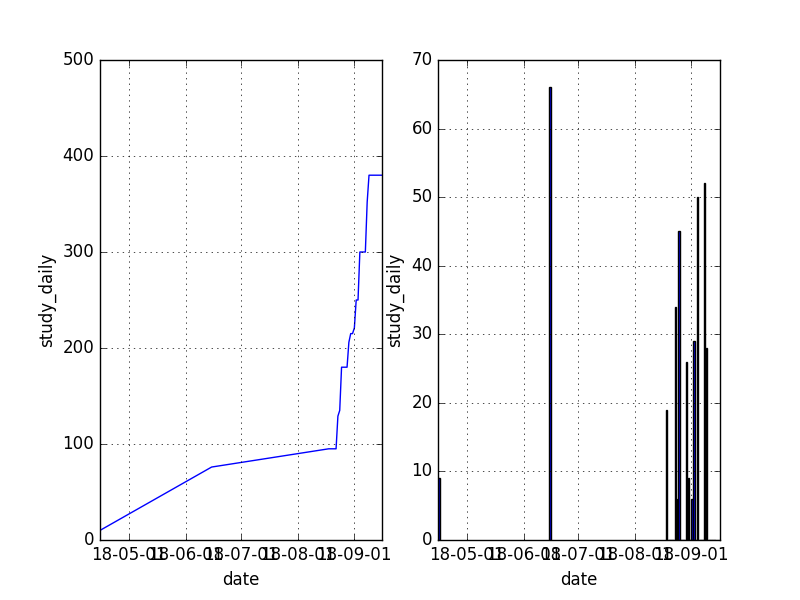
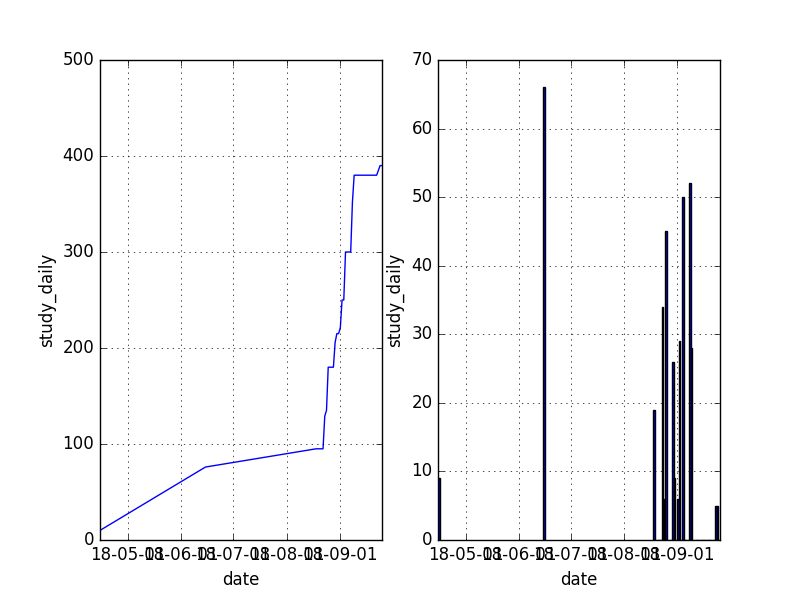
更新学习进度，狗狗分类提交了第一版，目前有6点要修复的尚未修复

diff --git a/狗狗分类第一次修改总结.md b/狗狗分类第一次修改总结.md
@@ -1,0 +1,86 @@
+问题2：
+	补充：或许应该利用身体的其他部分来定位人脸，比如肩膀、手臂、背部的位置，因为
+	对于普通人来说，这些部分跟人脸都是有相对位置的关系的，通常来讲，确定了肩膀的位置，
+	一般脸部的位置也能基本确定，这时即便模糊的人脸不能提供太多信息，但是结合肩膀等其
+	他身体部分的位置信息，也能将人脸检测出来吧。
+	
+步骤3：
+	问题点1：
+	提交指明了一个 CNN 模型架构。
+		有几个问题：
+
+		输出层的激活函数应该是softmax
+		cnn层的激活函数用relu会比较好，防止梯度消失，你没有制定的话，就是y=x
+	
+	
+	修改：
+		1. cnn层激活函数指定为relu（非线性）
+		2. 输出层的激活函数使用softmax（默认y=x啊。。。）
+		
+	问题点2：
+	训练过的模型在测试数据集上至少达到 1% 的准确度。
+	Test accuracy: 1.0766%
+
+	虽然通过了测试，但是这个准确率属于比较低的～
+
+	先把模型改过来，然后这是提高准确率的小技巧～
+
+	你可以使劲往上加层，直到它在测试集上过拟合，然后再加正则化和数据增强
+	如果不过拟合了，再接着往上加层
+	通常模型的大小取决于数据的量和复杂度，但是如果你使用max-pooling，你需要增加向上的每一层的神经元（比如你可以double一下）。通常在dense layer之前有2-5层，kernel size 3-5就差不多。你也可以用grid search找一组比较满意的参数～	
+	
+	修改：
+		1. 加层直到过拟合；
+		2. 应用正则化、数据增强来处理过拟合；
+		3. 重复1,2步
+		
+步骤5：
+	问题点1：
+	提交指明了一种模型架构
+	Good job! 你按照要求实现了模型！👏
+	但是你还是需要回答一下问题6哈！
+
+	问题 6:
+	在下方的代码块中尝试使用 Keras 搭建最终的网络架构，并回答你实现最终 CNN 架构的步骤与每一步的作用，并描述你在迁移学习过程中，使用该网络架构的原因。
+	
+	修改：
+		补充问题6的回答：描述每一步的作用以及在迁移学习过程中，使用该架构的原因；
+		
+步骤6：
+	问题点1：
+	提交使用第五步建立的 CNN 模型检测狗的种类。提交应对不同种类的输入图片有着不同的输出结果，并且提供实际（或最接近的）狗的种类。
+	题目要求为：
+
+	• 如果从图像中检测到一只狗，返回被预测的品种。
+	• 如果从图像中检测到人，返回最相像的狗品种。
+	• 如果两者都不能在图像中检测到，输出错误提示。
+
+	所以你的函数结构应该是：
+
+	if…
+	elif…
+	else…
+	
+	修改：没看到最后这个else的需求。。。。加入即可；
+	
+步骤7：
+	问题点1：
+	提交应至少检测了 6 张图片，其中至少包含了 2 张人脸图片与 2 张狗狗图片。
+	对的，还是要上传自己的照片～
+	对模型提升提出了很好的建议～
+	以下是一些改进模型建议，希望对你有帮助：
+
+	建议被分为4个子类：
+		数据 (Data)
+		算法 (algorithms)
+		算法调参 (algorithm tuning)
+		模型融合 (ensembles)
+		
+	修改：上传自己的图片，这个目前还不知道用什么方式上传啊。。。。
+
+
+
+
+
+
+

diff --git a/README.md b/README.md
@@ -33,6 +33,15 @@
     2018/9/14,深度学习-80,深度学习-80
     2018/9/15,深度学习-80,深度学习-80
     2018/9/16,深度学习-80,深度学习-80
+    2018/9/17,深度学习-80,深度学习-80
+    2018/9/18,深度学习-80,深度学习-80
+    2018/9/19,深度学习-80,深度学习-80
+    2018/9/20,深度学习-80,深度学习-80
+    2018/9/21,深度学习-80,深度学习-80
+    2018/9/22,深度学习-80,深度学习-80
+    2018/9/23,深度学习-80,深度学习-85
+    2018/9/24,深度学习-85,深度学习-90
+    2018/9/25,深度学习-90,深度学习-90
     >>>>>>>>>>>END<<<<<<<<<<<<](https://github.com/NemoHoHaloAi/machine-learning-plus/blob/master/study_daily.png)
 
 ## final learn plan
